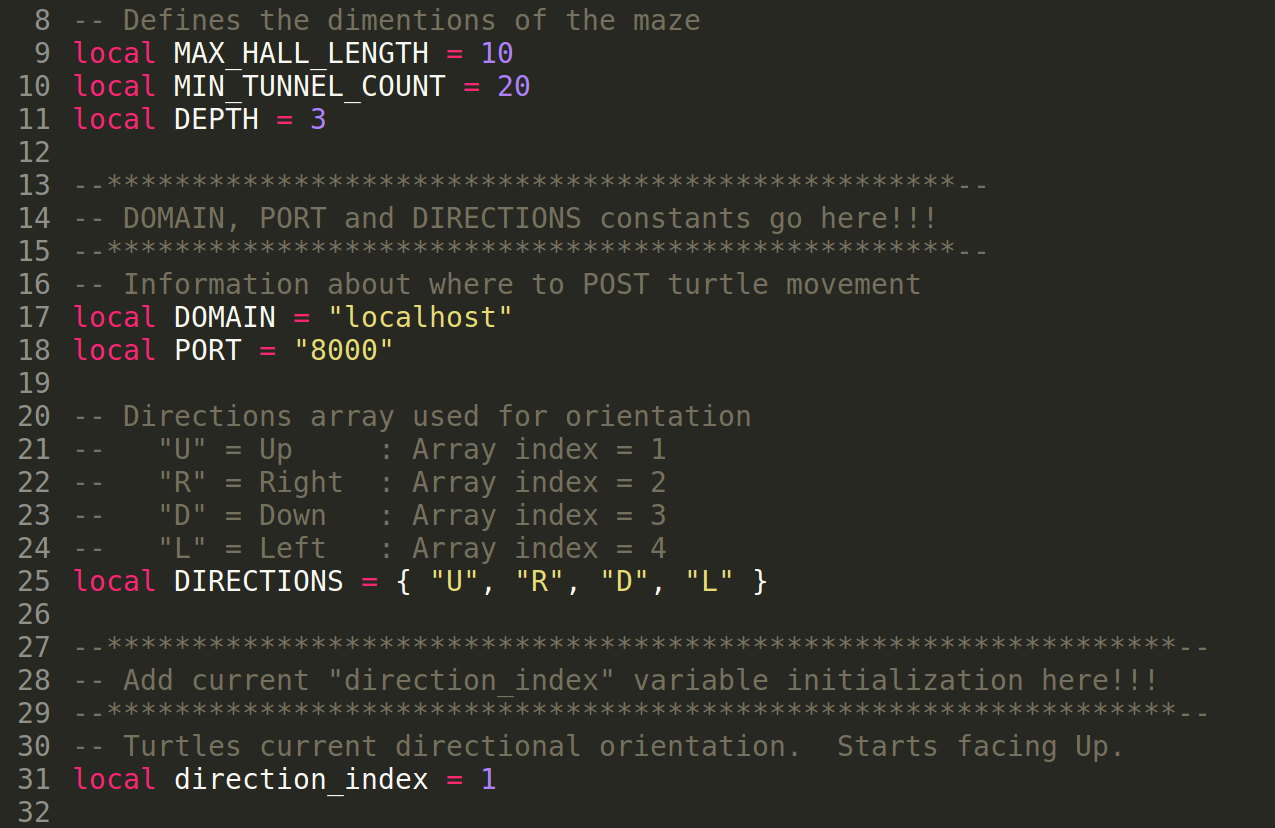
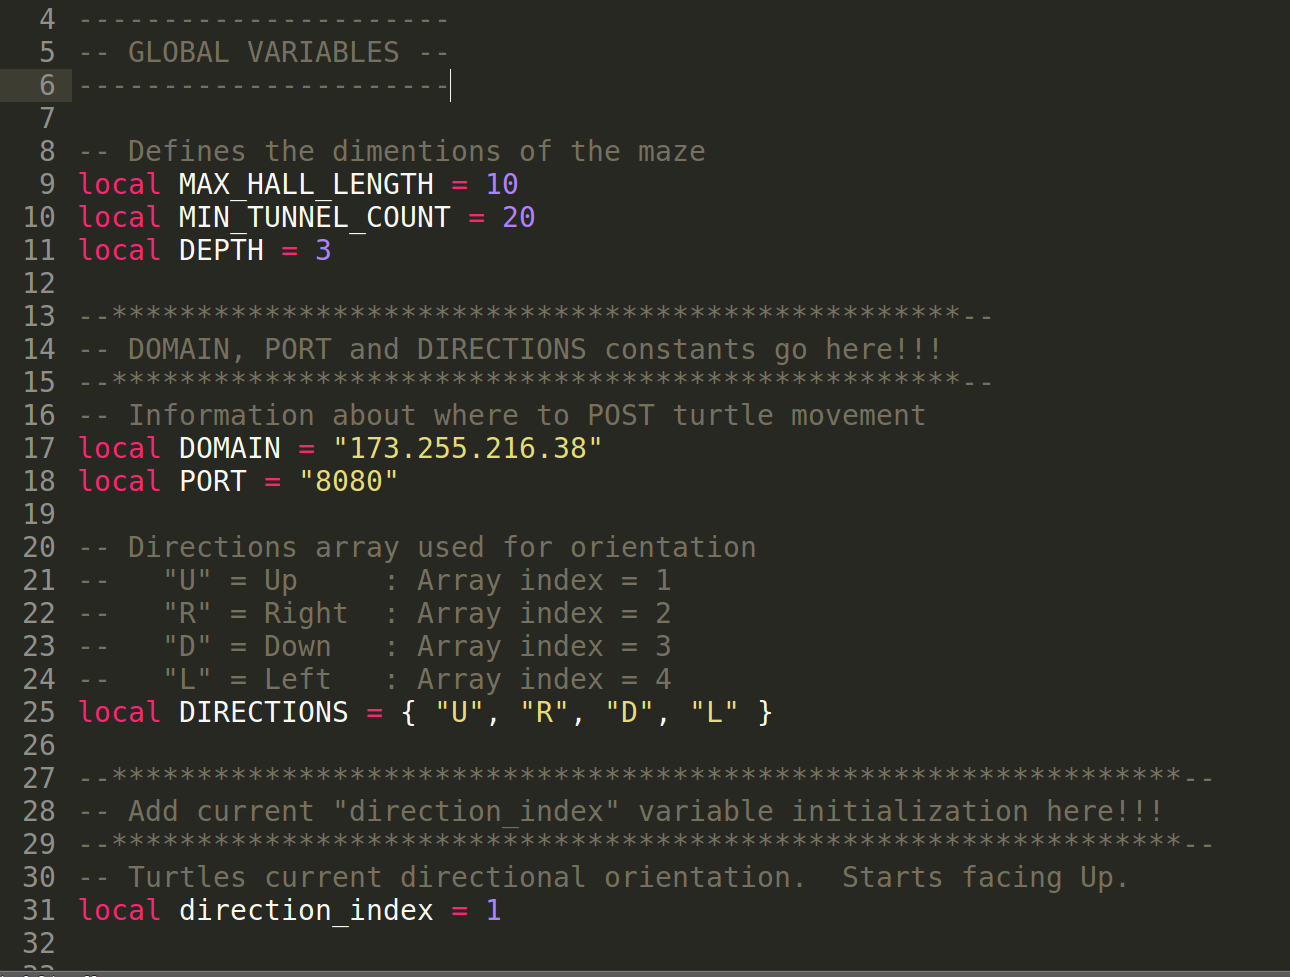
Update port and ip address now that remote server works.
Fixup some images for the presentation

diff --git a/presentations/mazemap.html b/presentations/mazemap.html
@@ -35,7 +35,8 @@
     <!-- Begin slides. Just make elements with a class of slide. -->
 
     <section class="slide">
-      <h1> Turtle MazeMap </h1>
+      <center><h2> Turtle MazeMap </h2></center>
+     <img src="images/mazemap.png"/>
     </section>
 
     <section class="slide">
@@ -62,8 +63,8 @@
       <h2>Definititions</h2>
       <h3>Broadcasting Turtle Location To The WEB</h3>
       <h4>Broadcasting Protocol == HTTP</h4>
-      <h4>Broadcasting Domain == ? (TBD) </h4>
-      <h4>Broadcasting Port == 8000 </h4>
+      <h4>Broadcasting Domain (IP Address) == 173.255.216.38 </h4>
+      <h4>Broadcasting Port == 8080 </h4>
       <p>
         <ul>
           <li> <strong>Protocol:</strong> A set of rules used in programming computers so that they can communicate with each other. </li>
